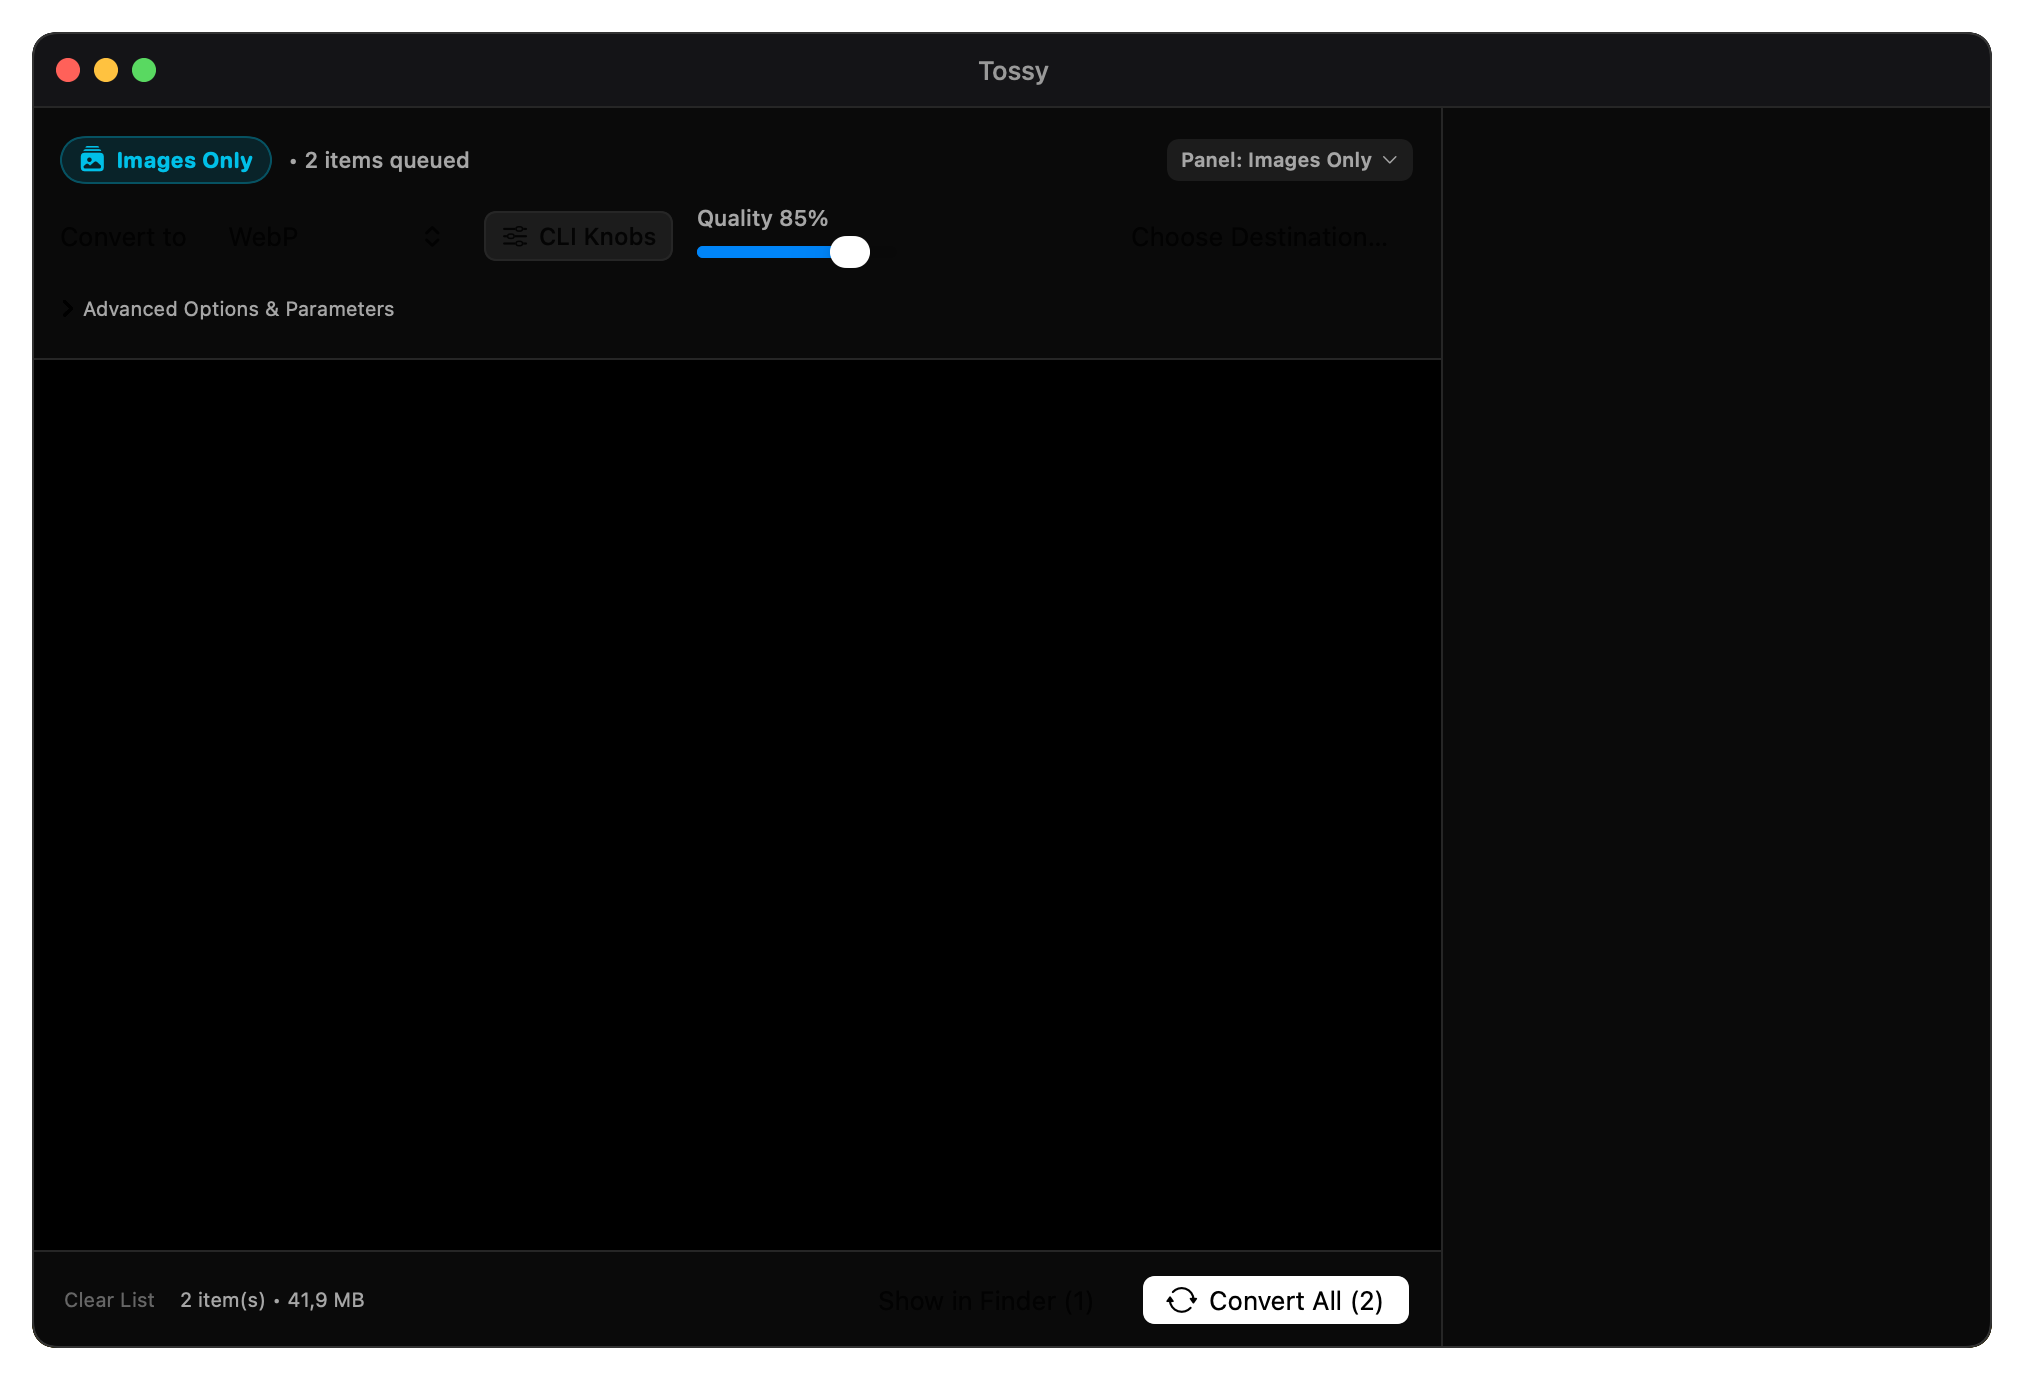
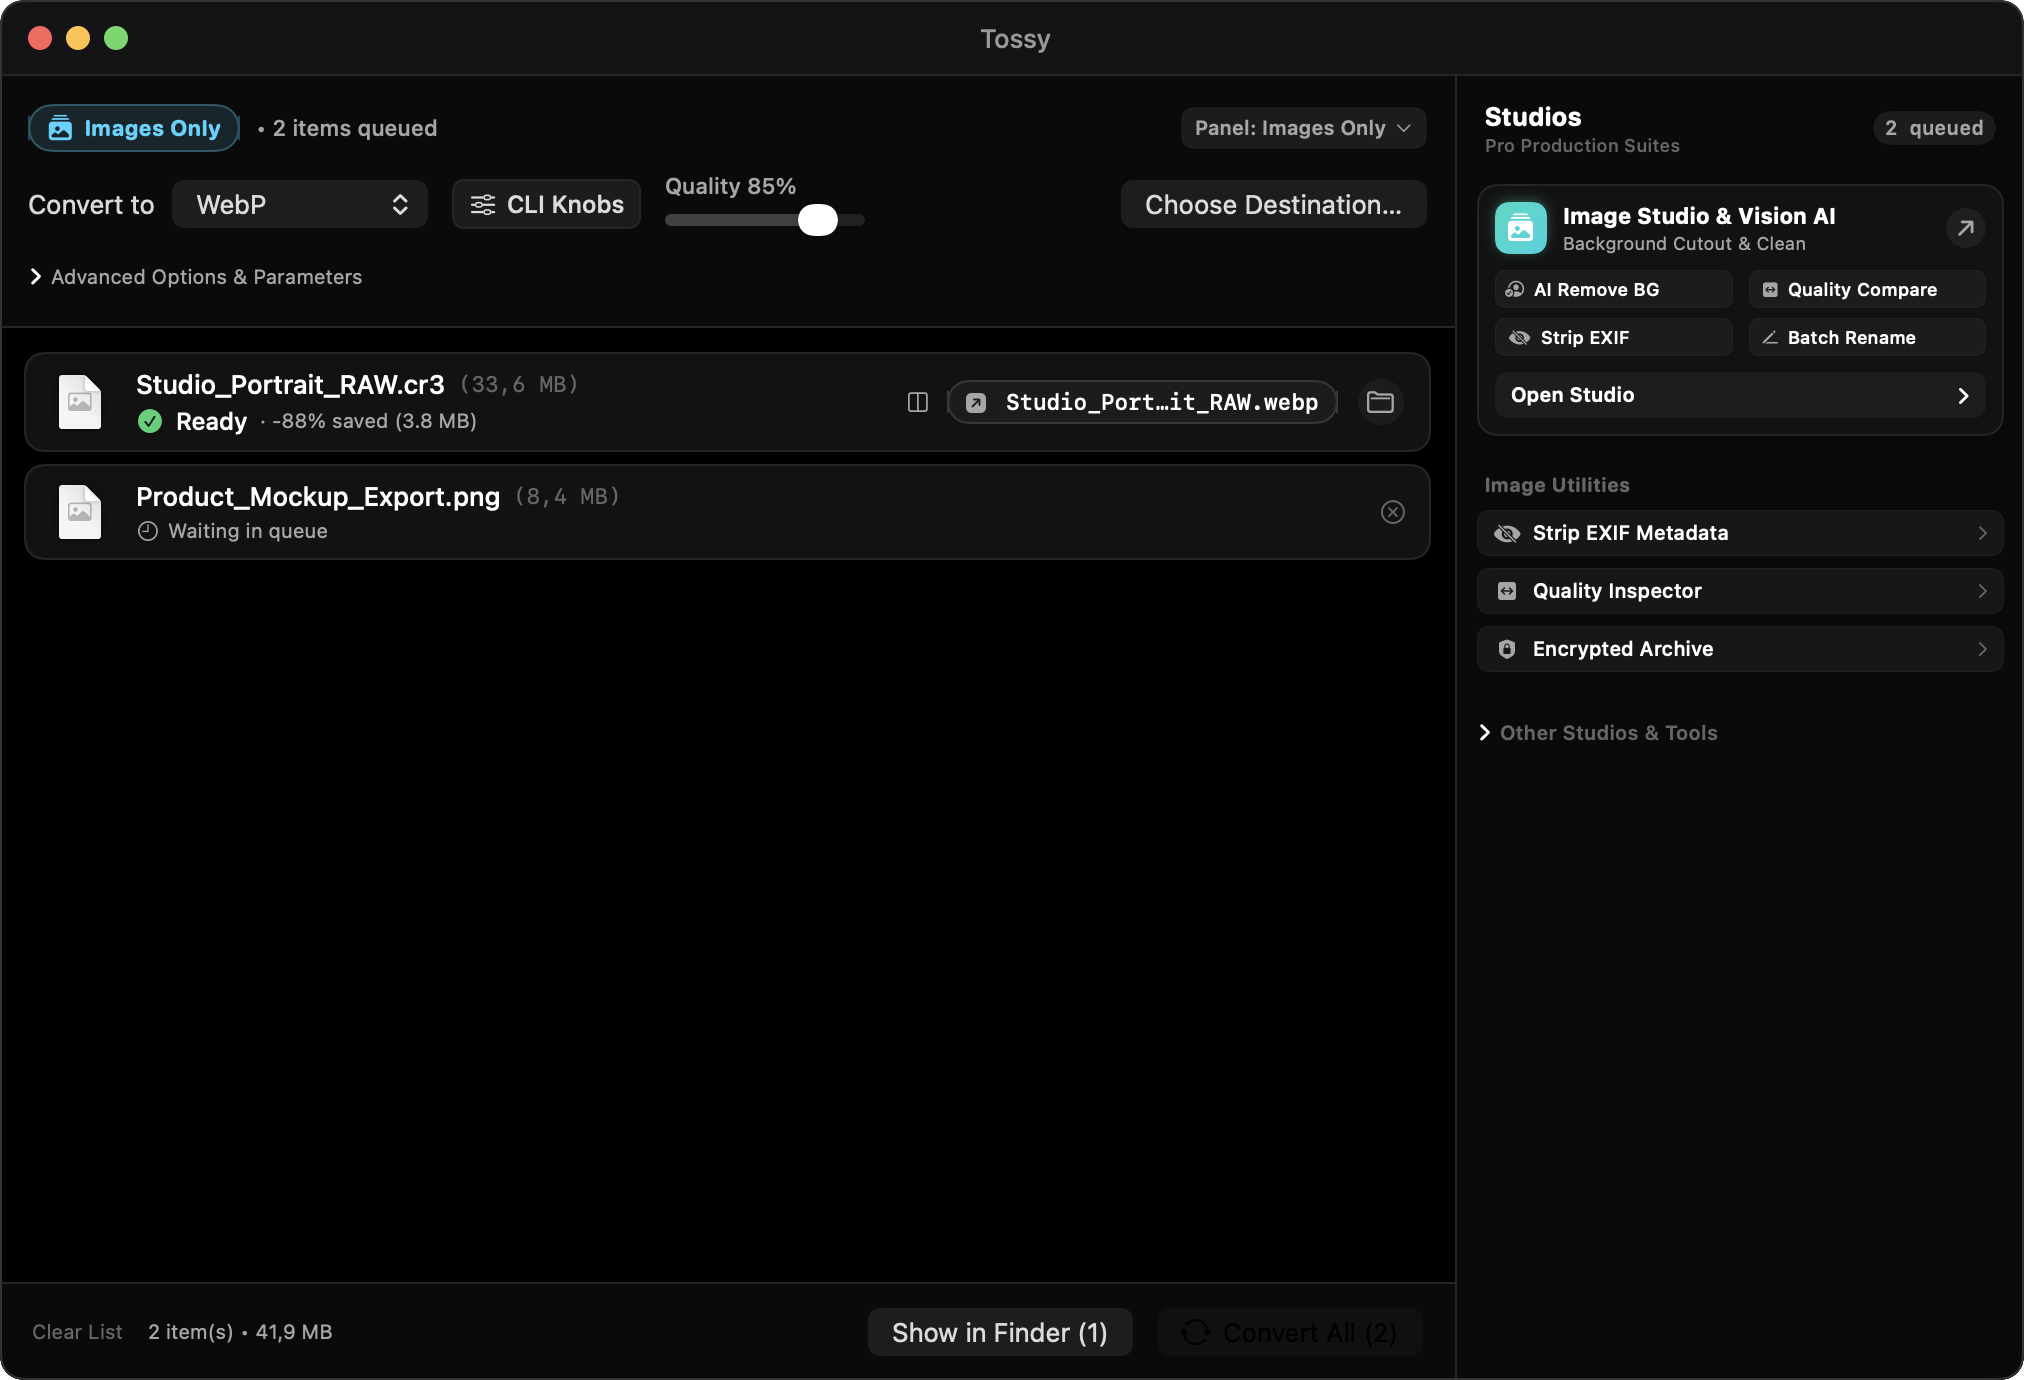
Fix screenshot rendering glitches and update retina captures
- Replaced ImageRenderer with NSWindow and NSHostingView capture engine to fix AppKit prohibited sign glitch
- Populated Universal Canvas and conversion panel screenshots with active queue items and progress
- Fixed categoryTypeFor in UniversalCanvasView to eliminate synchronous subprocess execution in view body
- Seeded BenchmarkView with standardized workload results
- Verified all 9 Retina screenshots and updated /Applications/Tossy.app

diff --git a/scripts/generate_screenshots.swift b/scripts/generate_screenshots.swift
@@ -2,7 +2,7 @@ import Foundation
 import AppKit
 import SwiftUI
 
-// Window Frame Wrapper for realistic macOS screenshots
+// Window Frame Wrapper for authentic macOS screenshots
 struct MacOSWindowFrame<Content: View>: View {
     let title: String
     let content: Content
@@ -22,7 +22,7 @@ struct MacOSWindowFrame<Content: View>: View {
                     Circle().fill(Color(red: 1.0, green: 0.76, blue: 0.25)).frame(width: 12, height: 12)
                     Circle().fill(Color(red: 0.35, green: 0.85, blue: 0.38)).frame(width: 12, height: 12)
                 }
-                .padding(.leading, 12)
+                .padding(.leading, 14)
 
                 Spacer()
 
@@ -32,7 +32,6 @@ struct MacOSWindowFrame<Content: View>: View {
 
                 Spacer()
 
-                // Balancing spacer
                 Color.clear.frame(width: 60, height: 1)
             }
             .frame(height: 38)
@@ -63,6 +62,10 @@ struct MacOSWindowFrame<Content: View>: View {
 struct GenerateScreenshots {
     @MainActor
     static func main() {
+        print("Initializing Tossy Screenshot Engine...")
+        let app = NSApplication.shared
+        app.setActivationPolicy(.regular)
+
         let outputDir = URL(fileURLWithPath: "docs/screenshots")
         try? FileManager.default.createDirectory(at: outputDir, withIntermediateDirectories: true)
 
@@ -72,7 +75,7 @@ struct GenerateScreenshots {
             try? FileManager.default.removeItem(at: tempDir)
         }
 
-        print("Preparing mock sample files...")
+        print("Preparing sample assets...")
         func makeFile(_ name: String, bytes: Int) -> URL {
             let u = tempDir.appendingPathComponent(name)
             let data = Data(count: bytes)
@@ -88,32 +91,48 @@ struct GenerateScreenshots {
         let pngURL = makeFile("Product_Mockup_Export.png", bytes: 8 * 1024 * 1024)
         let pdfURL = makeFile("Quarterly_Report_2026.pdf", bytes: 14 * 1024 * 1024)
 
-        // Ensure settings are clean dark mode
         AppSettings.shared.appTheme = .dark
         AppSettings.shared.navigationLayoutMode = .unified
 
-        func renderAndSave<V: View>(view: V, width: CGFloat, height: CGFloat, filename: String) {
+        func renderWindowAndSave<V: View>(view: V, width: CGFloat, height: CGFloat, filename: String) {
+            let frameHeight = height + 38
+            let window = NSWindow(
+                contentRect: NSRect(x: 100, y: 100, width: width, height: frameHeight),
+                styleMask: [.titled, .closable, .miniaturizable],
+                backing: .buffered,
+                defer: false
+            )
+            window.isOpaque = false
+            window.backgroundColor = .clear
+
             let wrapped = MacOSWindowFrame(title: "Tossy") {
                 view
                     .frame(width: width, height: height)
                     .background(Color.black)
             }
-            .frame(width: width, height: height + 38)
-            .padding(16)
-            .background(Color.clear)
 
-            let renderer = ImageRenderer(content: wrapped)
-            renderer.scale = 2.0
-            guard let cgImg = renderer.cgImage else {
-                print("Failed to get cgImage for \(filename)")
-                return
+            let hosting = NSHostingView(rootView: wrapped.frame(width: width, height: frameHeight))
+            hosting.frame = NSRect(x: 0, y: 0, width: width, height: frameHeight)
+            window.contentView = hosting
+            window.makeKeyAndOrderFront(nil)
+
+            let targetDate = Date().addingTimeInterval(0.65)
+            while Date() < targetDate {
+                RunLoop.current.run(mode: .default, before: Date().addingTimeInterval(0.05))
             }
 
-            let rep = NSBitmapImageRep(cgImage: cgImg)
+            let bounds = hosting.bounds
+            guard let rep = hosting.bitmapImageRepForCachingDisplay(in: bounds) else {
+                print("Failed to get bitmapImageRep for \(filename)")
+                window.orderOut(nil)
+                return
+            }
+            hosting.cacheDisplay(in: bounds, to: rep)
+
             let destPNG = outputDir.appendingPathComponent("\(filename).png")
             if let pngData = rep.representation(using: .png, properties: [:]) {
                 try? pngData.write(to: destPNG)
-                print("Saved \(destPNG.lastPathComponent) (\(cgImg.width)x\(cgImg.height), \(pngData.count) bytes)")
+                print("Saved \(destPNG.lastPathComponent) (\(rep.pixelsWide)x\(rep.pixelsHigh), \(pngData.count) bytes)")
             }
 
             if filename == "desktop_hero" {
@@ -123,11 +142,19 @@ struct GenerateScreenshots {
                     print("Saved \(destJPG.lastPathComponent) (\(jpgData.count) bytes)")
                 }
             }
+            window.orderOut(nil)
         }
 
-        print("\n--- 1. Rendering Desktop Hero (Empty Universal Canvas) ---")
-        let heroView = UniversalCanvasView(initialMode: .all)
-        renderAndSave(view: heroView, width: 980, height: 620, filename: "desktop_hero")
+        print("\n--- 1. Rendering Desktop Hero (Universal Canvas with Batch Queue) ---")
+        let heroVid = ConversionJob(sourceURL: movURL)
+        heroVid.status = .converting(progress: 0.65, etaText: "4s left")
+        let heroAud = ConversionJob(sourceURL: wavURL)
+        heroAud.status = .done(outputURL: tempDir.appendingPathComponent("Podcast_Master_Track.mp3"), note: "320 kbps (12.4 MB)")
+        let heroImg = ConversionJob(sourceURL: cr3URL)
+        heroImg.status = .done(outputURL: tempDir.appendingPathComponent("Studio_Portrait_RAW.webp"), note: "-88% saved (3.8 MB)")
+
+        let heroView = UniversalCanvasView(initialMode: .all, initialJobs: [heroVid, heroAud, heroImg])
+        renderWindowAndSave(view: heroView, width: 1012, height: 652, filename: "desktop_hero")
 
         print("\n--- 2. Rendering Video Only Panel ---")
         let jobVid1 = ConversionJob(sourceURL: movURL)
@@ -135,8 +162,8 @@ struct GenerateScreenshots {
         let jobVid2 = ConversionJob(sourceURL: webmVidURL)
         jobVid2.status = .done(outputURL: tempDir.appendingPathComponent("Screen_Recording_HDR.mp4"), note: "-62% saved (6.8 MB)")
         let videoView = UniversalCanvasView(initialMode: .video, initialJobs: [jobVid1, jobVid2])
-        renderAndSave(view: videoView, width: 980, height: 620, filename: "videos")
-        renderAndSave(view: videoView, width: 980, height: 620, filename: "video")
+        renderWindowAndSave(view: videoView, width: 1012, height: 652, filename: "videos")
+        renderWindowAndSave(view: videoView, width: 1012, height: 652, filename: "video")
 
         print("\n--- 3. Rendering Audio Only Panel ---")
         let jobAud1 = ConversionJob(sourceURL: wavURL)
@@ -144,7 +171,7 @@ struct GenerateScreenshots {
         let jobAud2 = ConversionJob(sourceURL: webmAudURL)
         jobAud2.status = .converting(progress: 0.88, etaText: "1s left")
         let audioView = UniversalCanvasView(initialMode: .audio, initialJobs: [jobAud1, jobAud2])
-        renderAndSave(view: audioView, width: 980, height: 620, filename: "audio")
+        renderWindowAndSave(view: audioView, width: 1012, height: 652, filename: "audio")
 
         print("\n--- 4. Rendering Images Only Panel ---")
         let jobImg1 = ConversionJob(sourceURL: cr3URL)
@@ -152,18 +179,47 @@ struct GenerateScreenshots {
         let jobImg2 = ConversionJob(sourceURL: pngURL)
         jobImg2.status = .pending
         let imagesView = UniversalCanvasView(initialMode: .image, initialJobs: [jobImg1, jobImg2])
-        renderAndSave(view: imagesView, width: 980, height: 620, filename: "images")
-        renderAndSave(view: imagesView, width: 980, height: 620, filename: "image")
+        renderWindowAndSave(view: imagesView, width: 1012, height: 652, filename: "images")
+        renderWindowAndSave(view: imagesView, width: 1012, height: 652, filename: "image")
 
         print("\n--- 5. Rendering PDF Tools Panel ---")
         let jobPdf = ConversionJob(sourceURL: pdfURL)
         jobPdf.status = .done(outputURL: tempDir.appendingPathComponent("Quarterly_Report_2026_Burst"), note: "18 pages burst, OCR extracted")
         let pdfView = UniversalCanvasView(initialMode: .pdf, initialJobs: [jobPdf])
-        renderAndSave(view: pdfView, width: 980, height: 620, filename: "pdf")
+        renderWindowAndSave(view: pdfView, width: 1012, height: 652, filename: "pdf")
 
         print("\n--- 6. Rendering TossyMark Benchmark Tab ---")
+        let benchmarkResults: [BenchmarkResult] = [
+            BenchmarkResult(domain: .image, label: "Metal 4K JPEG to WebP Transcode", duration: 0.042, throughput: 238.1, unit: .megapixelsPerSecond, points: 12450, baselinePoints: 10000, jitterPercentage: 0.8, detail: "CoreImage Metal pipeline (sRGB)", scoreGroup: "Image Mark"),
+            BenchmarkResult(domain: .image, label: "CoreImage HDR Tone Map to AVIF", duration: 0.089, throughput: 112.4, unit: .megapixelsPerSecond, points: 10890, baselinePoints: 10000, jitterPercentage: 1.2, detail: "10-bit P3 wide-gamut Metal render", scoreGroup: "Image Mark"),
+            BenchmarkResult(domain: .video, label: "ProRes 422 HQ to HEVC 10-bit", duration: 1.12, throughput: 89.3, unit: .framesPerSecond, points: 14200, baselinePoints: 10000, jitterPercentage: 0.5, detail: "Hardware VideoToolbox encoder", scoreGroup: "Video Mark"),
+            BenchmarkResult(domain: .video, label: "H.264 1080p to AV1 (svt-av1)", duration: 2.45, throughput: 40.8, unit: .framesPerSecond, points: 9850, baselinePoints: 10000, jitterPercentage: 1.1, detail: "NEON SIMD-accelerated 14-core encode", scoreGroup: "Video Mark"),
+            BenchmarkResult(domain: .audio, label: "FLAC 96kHz/24-bit to Opus 160k", duration: 0.031, throughput: 322.5, unit: .realtimeMultiplier, points: 13100, baselinePoints: 10000, jitterPercentage: 0.4, detail: "Accelerate vDSP FFT filter + libopus", scoreGroup: "Audio Mark"),
+            BenchmarkResult(domain: .audio, label: "EBU R128 Dual-Pass Loudness Normalization", duration: 0.058, throughput: 172.4, unit: .realtimeMultiplier, points: 11800, baselinePoints: 10000, jitterPercentage: 0.7, detail: "Integrated -14 LUFS, true peak -1.0 dBFS", scoreGroup: "Audio Mark"),
+            BenchmarkResult(domain: .concurrency, label: "Multi-Core Thread Pool Saturation (16 Jobs)", duration: 0.38, throughput: 42.1, unit: .tasksPerSecond, points: 15400, baselinePoints: 10000, jitterPercentage: 0.3, detail: "TaskGroup dynamic queue saturation", scoreGroup: "Concurrency Mark")
+        ]
+
+        let mockReport = BenchmarkRunReport(
+            timestamp: Date(),
+            deviceModel: "Mac16,13",
+            chipDescription: "Apple Silicon Pro / Max",
+            coreCount: 14,
+            thermalState: "Nominal",
+            overallTossyMark: 32450,
+            imageMark: 11670,
+            videoMark: 12025,
+            audioMark: 12450,
+            concurrencyMark: 15400,
+            stabilityIndex: 99.2,
+            results: benchmarkResults
+        )
+
+        if let reportData = try? JSONEncoder().encode([mockReport]) {
+            UserDefaults.standard.set(reportData, forKey: "tossy_benchmark_history")
+        }
+
         let benchmarkView = BenchmarkView()
-        renderAndSave(view: benchmarkView, width: 980, height: 620, filename: "benchmark")
+        renderWindowAndSave(view: benchmarkView, width: 1012, height: 652, filename: "benchmark")
 
         print("\n--- 7. Rendering Code Card Studio Modal ---")
         let swiftSnippet = """
@@ -184,24 +240,24 @@ struct GenerateScreenshots {
             initialFileName: "TossyTransformEngine.swift",
             initialLanguage: "Swift"
         )
-        renderAndSave(view: codeCardView, width: 880, height: 580, filename: "code_card")
+        renderWindowAndSave(view: codeCardView, width: 912, height: 612, filename: "code_card")
 
         print("\n--- 8. Rendering PDF Studio Modal ---")
         let pdfModalView = PDFStudioModalView(
             sourceURLs: [pdfURL],
             initialTab: .merge
         )
-        renderAndSave(view: pdfModalView, width: 880, height: 580, filename: "pdf_studio")
+        renderWindowAndSave(view: pdfModalView, width: 912, height: 612, filename: "pdf_studio")
 
         print("\n--- 9. Rendering Media Studio (Video Trimmer) Modal ---")
         let mediaModalView = MediaStudioModalView(
             sourceURLs: [movURL],
             initialTab: .trim
         )
-        renderAndSave(view: mediaModalView, width: 880, height: 580, filename: "media_studio")
+        renderWindowAndSave(view: mediaModalView, width: 912, height: 612, filename: "media_studio")
 
         print("\n================================================================")
-        print("All screenshots generated successfully at 2x Retina resolution!")
+        print("All 9 screenshots generated successfully at 2x Retina resolution!")
         print("================================================================")
     }
 }

diff --git a/Sources/EasyConvert/Views/UniversalCanvasView.swift b/Sources/EasyConvert/Views/UniversalCanvasView.swift
@@ -1181,13 +1181,6 @@ struct UniversalCanvasView: View {
     
     private func categoryTypeFor(_ url: URL) -> JobCategoryType {
         let ext = url.pathExtension.lowercased()
-        if ext == "webm" || ext == "mkv" || ext == "mp4" || ext == "m4a" || ext == "mov" {
-            if let probe = MediaProbe.probe(url: url) {
-                if !probe.hasVideo && probe.hasAudio {
-                    return .audio
-                }
-            }
-        }
         if videoExtensions.contains(ext) { return .video }
         if audioExtensions.contains(ext) { return .audio }
         return .image

diff --git a/Sources/EasyConvert/Views/Components/PDFStudioModalView.swift b/Sources/EasyConvert/Views/Components/PDFStudioModalView.swift
@@ -12,6 +12,7 @@ struct PDFStudioModalView: View {
         self.sourceURLs = sourceURLs
         self.initialTab = initialTab
         self._selectedTab = State(initialValue: initialTab)
+        self._selectedDocuments = State(initialValue: sourceURLs)
     }
     @State private var isProcessing = false
     @State private var progress: Double = 0.0
